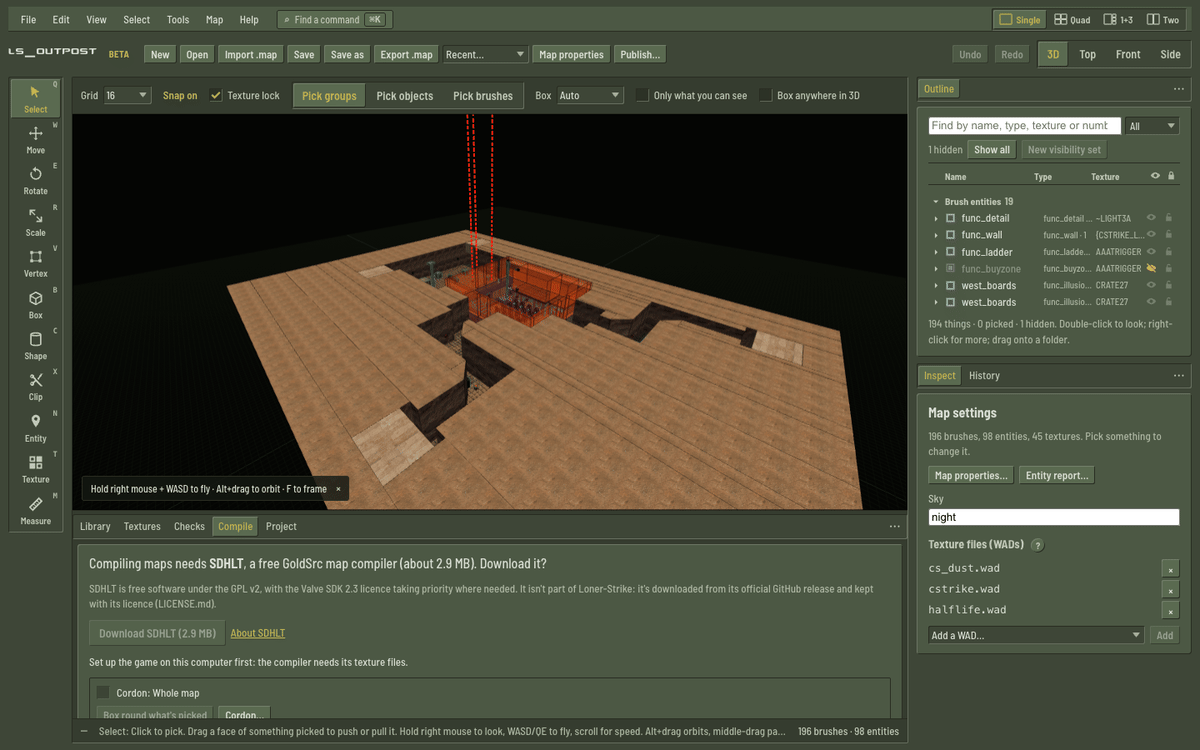
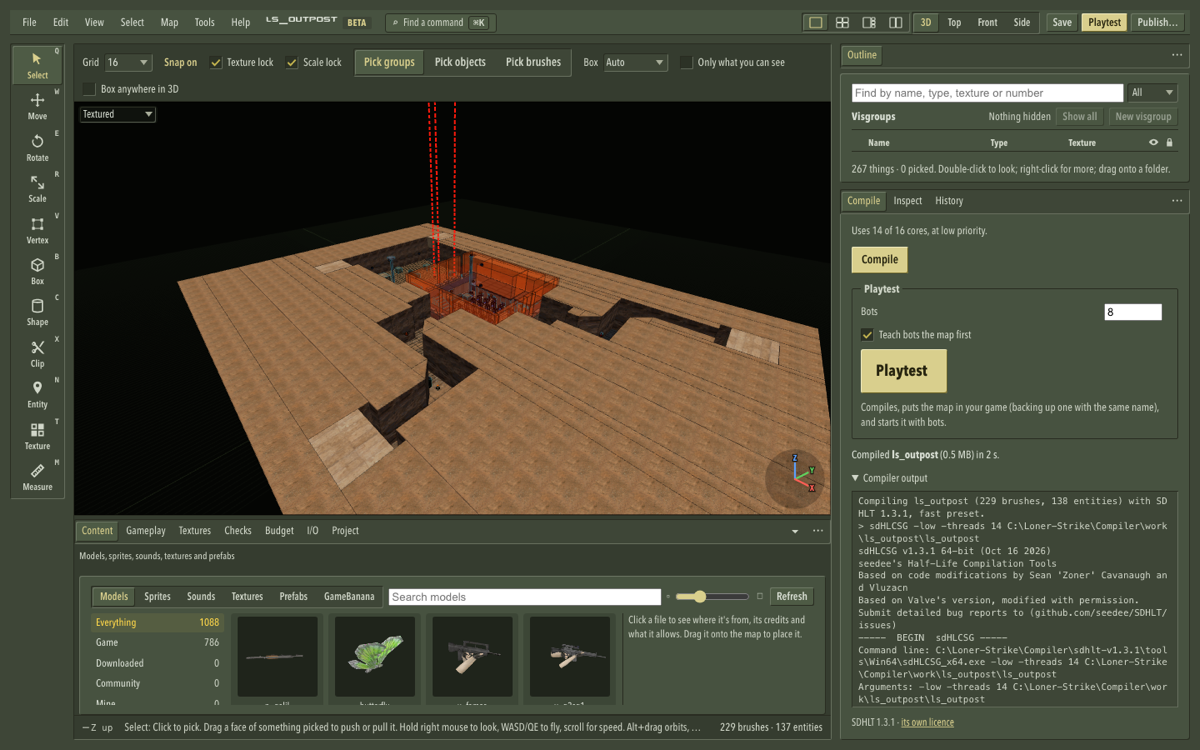
Site: the editor's Compile shot after a real Fast compile of ls_outpost (its result and the compiler's output), in docs and the home tour

Changed region(s): [[0.0, 0.0, 1.0, 0.9813], [0.5858, 0.0613, 0.6475, 0.092]]

diff --git a/site/docs.html b/site/docs.html
@@ -857,8 +857,8 @@ footer a { color: var(--dim); }
   <h1>Compile and playtest</h1>
   <p class="lead">Turn your map into a .bsp and play it with bots, from the <b>Compile</b> panel or with <span class="kbd">F5</span>.</p>
   <figure class="shot">
-    <picture><source srcset="img/1.0/editor-compile.webp" type="image/webp"><img src="img/1.0/editor-compile.png" alt="The Compile panel offering to download SDHLT, with the cordon settings below" width="1440" height="900" loading="lazy"></picture>
-    <figcaption>The first time, the Compile panel offers to download SDHLT.</figcaption>
+    <picture><source srcset="img/1.0/editor-compile.webp" type="image/webp"><img src="img/1.0/editor-compile.png" alt="The Compile panel after a Fast compile of ls_outpost with SDHLT: the quality, the Playtest settings, Compiled ls_outpost (0.5 MB) in 2 s, and the compiler's own output" width="1440" height="900" loading="lazy"></picture>
+    <figcaption>A Fast compile of ls_outpost: the map and the compiler's output. (The first time, the panel offers to download SDHLT.)</figcaption>
   </figure>
   <h2 id="sdhlt">The compiler</h2>
   <p>Maps compile with <b>SDHLT</b>, a free compiler (about 3 MB). The first time, <b>Download SDHLT</b> fetches it from its official GitHub release; its license is in the panel. On a Mac it runs through CrossOver in your game's bottle.</p>
